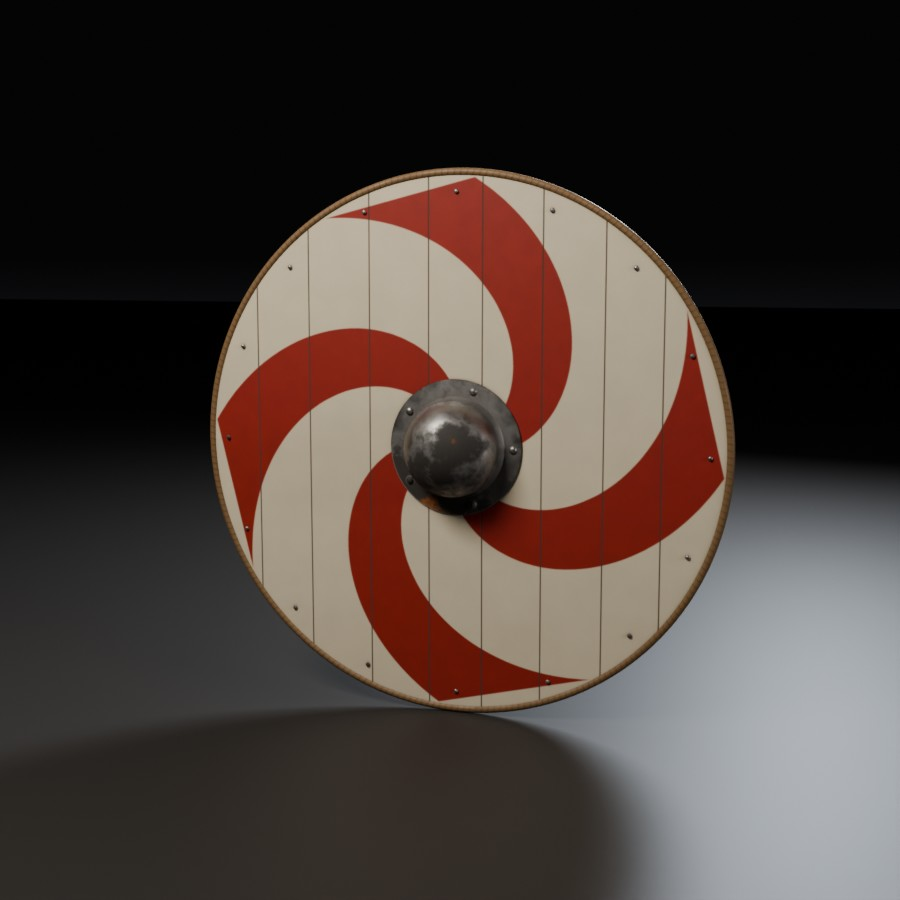
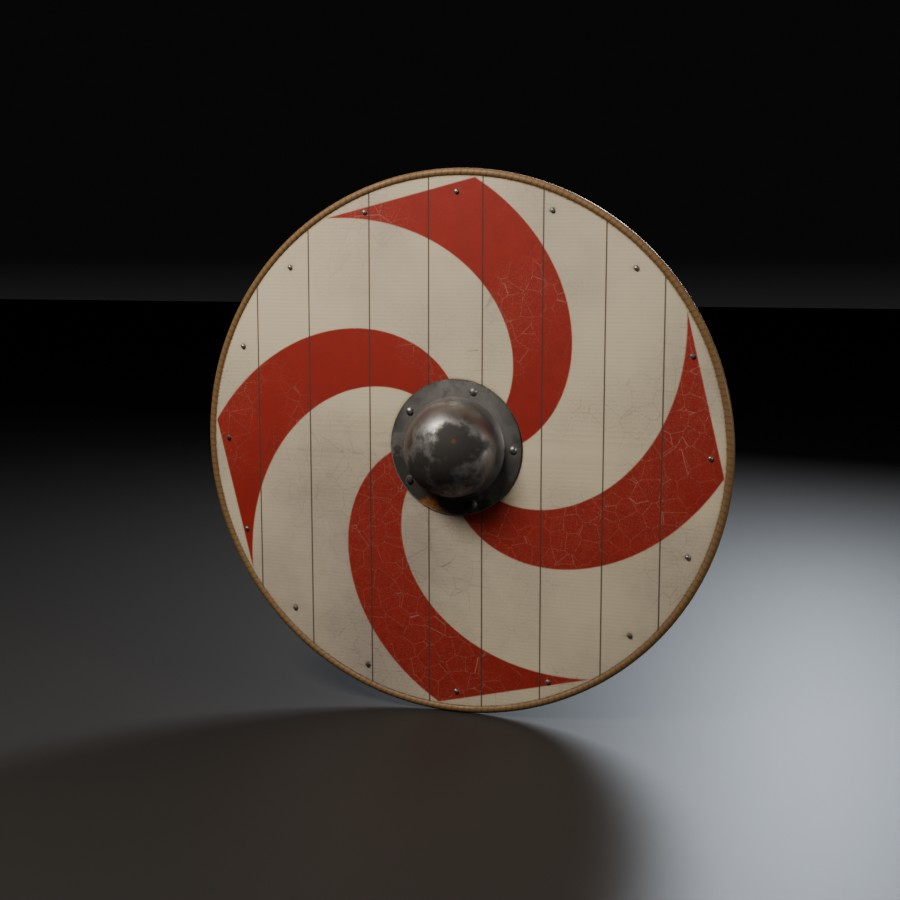
Add library catalogue generator and README
Claude-Session: https://claude.ai/code/session_015rzUVMpXxf4vREF2omhBiY

diff --git a/assets/forge/catalog.py b/assets/forge/catalog.py
@@ -1,0 +1,81 @@
+"""Write library/README.md: a catalogue of every built asset (from the *.json metas).
+
+    python3 -m forge.catalog
+"""
+import json
+import os
+
+ROOT = os.path.dirname(os.path.dirname(os.path.abspath(__file__)))
+LIB = os.path.join(ROOT, "library")
+
+THEMES = [
+    ("nordic", "Nordic / Viking age", "c. 800-1050 AD. Weapons, armour, drinking gear, tools."),
+    ("viking_hall", "Viking hall - modular kit", "Building kit for a longhouse / mead hall (see metrics below)."),
+    ("egypt", "Ancient Egypt", "New Kingdom. Regalia, amulets, vessels, a senet board, a papyrus with real hieroglyphs."),
+    ("jade_dynasty", "Jade Dynasty", "Modern imperial China: polished jade, gold, black lacquer, celadon."),
+    ("greece", "Greece / Olympus", "Archaic-Classical. Hoplite gear, painted pottery, divine attributes."),
+    ("paris_1940", "Occupied Paris 1940-44", "A comfortable bourgeois apartment: devices, tableware, furniture."),
+    ("aztec", "Aztec jungle", "Mexica, c. 1400-1521. Obsidian weapons, mosaics, featherwork, daily tools."),
+]
+
+KIT_NOTES = """
+### Kit metrics (viking_hall)
+
+| Rule | Value |
+|---|---|
+| Grid | 2 m along the hall (X). Span 8 m, outer wall lines at y = -4 / +4 |
+| Stone plinth | z 0 - 0.5 (`foundation_2m`, `foundation_corner`) |
+| Floor level | z = 0.5 (`floor_*_2x2`, top surface at the pivot) |
+| Walls | 2.5 m, base on the plinth, top plate at z = 3.0 |
+| Roof | 45 deg, 0.6 m eave overhang, ridge at z = 7.0. Place roof pieces at z = 3.0 |
+| Hall posts | two rows at y = +-2, 4.0 m tall on the floor; purlins (`beam_2m`) on top at z = 4.5 |
+| Door | `door_plank` hinges at local (0.57, 0, 0.22) of `wall_plank_door_2m` |
+| Opposite roof slope | `roof_thatch_2m` rotated 180 deg about Z, shifted +2 m in X |
+
+Pivots sit exactly on the snapping point (module start on the wall centre line,
+or footprint centre for posts and props). `_demo_hall.glb` shows a 12 x 8 m hall
+assembled only from kit pieces.
+"""
+
+
+def main():
+    lines = ["# 3D asset library", "",
+             "Procedurally generated, game-ready glTF 2.0 assets (PBR metallic-roughness, one baked texture set "
+             "per asset: base colour, ORM, tangent-space normal; real-world scale in metres; +Y up).", "",
+             "Everything is regenerated from code: `python3 -m forge.runner` (see `assets/forge/`).", ""]
+    total = 0
+    for key, title, blurb in THEMES:
+        d = os.path.join(LIB, key)
+        if not os.path.isdir(d):
+            continue
+        metas = []
+        for f in sorted(os.listdir(d)):
+            if f.endswith(".json") and not f.startswith("_"):
+                metas.append(json.load(open(os.path.join(d, f))))
+        if not metas:
+            continue
+        total += len(metas)
+        lines += [f"## {title}", "", blurb, "", f"![{title}]({key}/_review.jpg)", ""]
+        lines += ["| Asset | File | Size (m) | Triangles | Texture | GLB |", "|---|---|---|---|---|---|"]
+        for m in metas:
+            dims = " x ".join(f"{x:.2f}" for x in m["dims_m"])
+            lines.append(f"| {m['title']} | `{key}/{m['name']}.glb` | {dims} | {m['tris']:,} | {m['texture']} px | "
+                         f"{m['glb_kb'] / 1024:.1f} MB |")
+        lines.append("")
+        if key == "viking_hall":
+            lines.append(KIT_NOTES)
+            if os.path.exists(os.path.join(d, "_demo_exterior.jpg")):
+                lines += ["![demo hall](viking_hall/_demo_exterior.jpg)",
+                          "![demo hall cutaway](viking_hall/_demo_cutaway.jpg)", ""]
+    lines += ["## Engine notes", "",
+              "- **Unity**: glTFast or UnityGLTF. **Unreal 5**: built-in glTF importer (Interchange). "
+              "**Godot 4**: native. **three.js / Babylon**: GLTFLoader.",
+              "- Normal maps are OpenGL-style (+Y). Flip green for DirectX-convention pipelines.",
+              "- Glass, liquids and embers use separate untextured materials (transmission / emission).", "",
+              f"_{total} assets._", ""]
+    open(os.path.join(LIB, "README.md"), "w").write("\n".join(lines))
+    print(f"catalogue: {total} assets")
+
+
+if __name__ == "__main__":
+    main()

diff --git a/assets/forge/runner.py b/assets/forge/runner.py
@@ -36,7 +36,7 @@ def themes():
 def forge_hash():
     h = hashlib.sha1()
     for f in sorted(os.listdir(os.path.join(ROOT, "forge"))):
-        if f.endswith(".py") and f not in ("runner.py",):
+        if f.endswith(".py") and f not in ("runner.py", "catalog.py", "demo_hall.py", "run_asset.py"):
             h.update(open(os.path.join(ROOT, "forge", f), "rb").read())
     return h.hexdigest()
 

diff --git a/assets/library/README.md b/assets/library/README.md
@@ -1,0 +1,127 @@
+# 3D asset library
+
+Procedurally generated, game-ready glTF 2.0 assets (PBR metallic-roughness, one baked texture set per asset: base colour, ORM, tangent-space normal; real-world scale in metres; +Y up).
+
+Everything is regenerated from code: `python3 -m forge.runner` (see `assets/forge/`).
+
+## Nordic / Viking age
+
+c. 800-1050 AD. Weapons, armour, drinking gear, tools.
+
+![Nordic / Viking age](nordic/_review.jpg)
+
+| Asset | File | Size (m) | Triangles | Texture | GLB |
+|---|---|---|---|---|---|
+| Bearded axe | `nordic/bearded_axe.glb` | 0.20 x 0.04 x 0.71 | 32,868 | 2048 px | 1.7 MB |
+| Drinking horn | `nordic/drinking_horn.glb` | 0.28 x 0.12 x 0.41 | 31,636 | 2048 px | 1.9 MB |
+| Mjolnir pendant | `nordic/mjolnir_pendant.glb` | 0.04 x 0.01 x 0.04 | 12,796 | 1024 px | 1.0 MB |
+| Round shield | `nordic/round_shield.glb` | 0.85 x 0.12 x 0.85 | 12,420 | 2048 px | 1.1 MB |
+| Sea chest | `nordic/sea_chest.glb` | 0.88 x 0.47 x 0.42 | 11,056 | 2048 px | 1.5 MB |
+| Smithing hammer | `nordic/smithing_hammer.glb` | 0.13 x 0.04 x 0.35 | 6,220 | 1024 px | 0.3 MB |
+| Soapstone pot | `nordic/soapstone_pot.glb` | 0.36 x 0.32 x 0.32 | 14,396 | 1024 px | 0.7 MB |
+| Spangenhelm | `nordic/spangenhelm.glb` | 0.21 x 0.25 x 0.25 | 25,174 | 2048 px | 2.0 MB |
+| Stave tankard | `nordic/stave_tankard.glb` | 0.20 x 0.14 x 0.16 | 6,252 | 1024 px | 0.5 MB |
+| Viking sword | `nordic/viking_sword.glb` | 0.14 x 0.03 x 0.89 | 28,028 | 2048 px | 1.9 MB |
+
+## Ancient Egypt
+
+New Kingdom. Regalia, amulets, vessels, a senet board, a papyrus with real hieroglyphs.
+
+![Ancient Egypt](egypt/_review.jpg)
+
+| Asset | File | Size (m) | Triangles | Texture | GLB |
+|---|---|---|---|---|---|
+| Ankh | `egypt/ankh.glb` | 0.18 x 0.01 x 0.25 | 7,520 | 2048 px | 1.0 MB |
+| Blue-painted jar | `egypt/blue_painted_jar.glb` | 0.32 x 0.32 x 0.60 | 27,008 | 2048 px | 1.5 MB |
+| Crook and flail | `egypt/crook_and_flail.glb` | 0.20 x 0.08 x 0.34 | 11,224 | 2048 px | 1.3 MB |
+| Heart scarab | `egypt/heart_scarab.glb` | 0.05 x 0.07 x 0.03 | 9,072 | 1024 px | 0.6 MB |
+| Khopesh | `egypt/khopesh.glb` | 0.22 x 0.03 x 0.59 | 10,212 | 2048 px | 1.1 MB |
+| Lotus chalice | `egypt/lotus_chalice.glb` | 0.24 x 0.17 x 0.18 | 29,368 | 2048 px | 1.6 MB |
+| Papyrus scroll | `egypt/papyrus_scroll.glb` | 0.38 x 0.26 x 0.05 | 25,844 | 2048 px | 1.8 MB |
+| Senet board | `egypt/senet_board.glb` | 0.43 x 0.23 x 0.07 | 2,980 | 2048 px | 0.7 MB |
+| Sistrum | `egypt/sistrum.glb` | 0.13 x 0.07 x 0.30 | 14,608 | 1024 px | 0.8 MB |
+| Usekh collar | `egypt/usekh_collar.glb` | 0.35 x 0.31 x 0.01 | 69,780 | 2048 px | 5.4 MB |
+
+## Jade Dynasty
+
+Modern imperial China: polished jade, gold, black lacquer, celadon.
+
+![Jade Dynasty](jade_dynasty/_review.jpg)
+
+| Asset | File | Size (m) | Triangles | Texture | GLB |
+|---|---|---|---|---|---|
+| Bi disc on stand | `jade_dynasty/bi_disc.glb` | 0.20 x 0.06 x 0.23 | 3,520 | 2048 px | 0.6 MB |
+| Buyao hairpin | `jade_dynasty/buyao_hairpin.glb` | 0.23 x 0.05 x 0.01 | 8,748 | 1024 px | 0.6 MB |
+| Celadon bowl | `jade_dynasty/celadon_bowl.glb` | 0.20 x 0.20 x 0.08 | 37,376 | 1024 px | 1.5 MB |
+| Bronze ding censer | `jade_dynasty/ding_censer.glb` | 0.23 x 0.23 x 0.23 | 10,760 | 2048 px | 1.3 MB |
+| Folding fan | `jade_dynasty/folding_fan.glb` | 0.49 x 0.33 x 0.02 | 6,424 | 2048 px | 1.2 MB |
+| Jade abacus | `jade_dynasty/jade_abacus.glb` | 0.30 x 0.02 x 0.16 | 12,308 | 2048 px | 1.8 MB |
+| Jade jian | `jade_dynasty/jade_jian.glb` | 0.12 x 0.03 x 0.97 | 11,552 | 2048 px | 0.9 MB |
+| Jade seal and cinnabar box | `jade_dynasty/jade_seal.glb` | 0.14 x 0.17 x 0.10 | 14,904 | 2048 px | 1.1 MB |
+| Silk lantern | `jade_dynasty/silk_lantern.glb` | 0.29 x 0.29 x 0.43 | 52,640 | 2048 px | 3.6 MB |
+| Zisha teapot | `jade_dynasty/zisha_teapot.glb` | 0.23 x 0.15 x 0.12 | 33,288 | 2048 px | 1.7 MB |
+
+## Greece / Olympus
+
+Archaic-Classical. Hoplite gear, painted pottery, divine attributes.
+
+![Greece / Olympus](greece/_review.jpg)
+
+| Asset | File | Size (m) | Triangles | Texture | GLB |
+|---|---|---|---|---|---|
+| Black-figure amphora | `greece/amphora.glb` | 0.32 x 0.32 x 0.62 | 31,608 | 2048 px | 1.6 MB |
+| Chelys lyre | `greece/chelys_lyre.glb` | 0.26 x 0.07 x 0.50 | 10,288 | 2048 px | 1.2 MB |
+| Corinthian helmet | `greece/corinthian_helmet.glb` | 0.20 x 0.29 x 0.37 | 18,274 | 2048 px | 1.5 MB |
+| Hoplon shield | `greece/hoplon.glb` | 0.91 x 0.10 x 0.91 | 38,824 | 2048 px | 1.8 MB |
+| Red-figure kylix | `greece/kylix.glb` | 0.28 x 0.25 x 0.09 | 39,560 | 2048 px | 1.5 MB |
+| Golden laurel wreath | `greece/laurel_wreath.glb` | 0.26 x 0.24 x 0.05 | 39,384 | 1024 px | 2.2 MB |
+| Terracotta oil lamp | `greece/oil_lamp.glb` | 0.15 x 0.10 x 0.04 | 6,464 | 1024 px | 0.4 MB |
+| Thunderbolt of Zeus | `greece/thunderbolt.glb` | 0.09 x 0.09 x 0.72 | 10,520 | 2048 px | 1.7 MB |
+| Trident of Poseidon | `greece/trident.glb` | 0.27 x 0.06 x 1.55 | 5,468 | 2048 px | 0.8 MB |
+| Xiphos | `greece/xiphos.glb` | 0.09 x 0.04 x 0.61 | 8,044 | 2048 px | 0.7 MB |
+
+## Occupied Paris 1940-44
+
+A comfortable bourgeois apartment: devices, tableware, furniture.
+
+![Occupied Paris 1940-44](paris_1940/_review.jpg)
+
+| Asset | File | Size (m) | Triangles | Texture | GLB |
+|---|---|---|---|---|---|
+| Leather club chair | `paris_1940/club_chair.glb` | 0.78 x 0.70 x 0.83 | 6,932 | 2048 px | 0.8 MB |
+| Limoges cup and saucer | `paris_1940/cup_and_saucer.glb` | 0.18 x 0.18 x 0.06 | 36,128 | 1024 px | 1.3 MB |
+| Felt fedora | `paris_1940/fedora.glb` | 0.35 x 0.31 x 0.14 | 20,716 | 2048 px | 1.5 MB |
+| Horn gramophone | `paris_1940/gramophone.glb` | 0.52 x 0.72 x 0.83 | 23,356 | 2048 px | 1.7 MB |
+| Art deco table lamp | `paris_1940/table_lamp.glb` | 0.35 x 0.35 x 0.47 | 20,412 | 2048 px | 1.8 MB |
+| Bakelite telephone | `paris_1940/telephone.glb` | 0.29 x 0.22 x 0.14 | 21,400 | 2048 px | 1.7 MB |
+| Art deco tube radio | `paris_1940/tube_radio.glb` | 0.38 x 0.25 x 0.41 | 10,652 | 2048 px | 1.1 MB |
+| Portable typewriter | `paris_1940/typewriter.glb` | 0.38 x 0.30 x 0.26 | 27,492 | 2048 px | 2.3 MB |
+| Walther P38 | `paris_1940/walther_p38.glb` | 0.19 x 0.04 x 0.13 | 1,864 | 2048 px | 0.8 MB |
+| Bordeaux bottle and glass | `paris_1940/wine_and_glass.glb` | 0.22 x 0.13 x 0.32 | 25,940 | 2048 px | 1.3 MB |
+
+## Aztec jungle
+
+Mexica, c. 1400-1521. Obsidian weapons, mosaics, featherwork, daily tools.
+
+![Aztec jungle](aztec/_review.jpg)
+
+| Asset | File | Size (m) | Triangles | Texture | GLB |
+|---|---|---|---|---|---|
+| Chimalli feather shield | `aztec/chimalli.glb` | 0.70 x 0.02 x 0.79 | 7,332 | 2048 px | 1.2 MB |
+| Screenfold codex | `aztec/codex.glb` | 0.89 x 0.20 x 0.03 | 152 | 2048 px | 0.5 MB |
+| Quetzal feather headdress | `aztec/feather_headdress.glb` | 1.14 x 0.20 x 0.60 | 40,068 | 2048 px | 2.7 MB |
+| Macuahuitl | `aztec/macuahuitl.glb` | 0.11 x 0.06 x 0.96 | 12,052 | 2048 px | 1.4 MB |
+| Metate and mano | `aztec/metate_mano.glb` | 0.46 x 0.30 x 0.20 | 7,488 | 2048 px | 1.3 MB |
+| Turquoise mosaic mask | `aztec/mosaic_mask.glb` | 0.16 x 0.09 x 0.20 | 8,880 | 2048 px | 2.4 MB |
+| Sun stone | `aztec/sun_stone.glb` | 0.60 x 0.09 x 0.60 | 23,040 | 2048 px | 2.3 MB |
+| Tecpatl ritual knife | `aztec/tecpatl.glb` | 0.09 x 0.06 x 0.32 | 4,828 | 2048 px | 1.6 MB |
+| Teponaztli slit drum | `aztec/teponaztli.glb` | 0.60 x 0.43 x 0.18 | 11,062 | 2048 px | 1.2 MB |
+| Tripod bowl | `aztec/tripod_bowl.glb` | 0.28 x 0.28 x 0.11 | 35,152 | 2048 px | 1.8 MB |
+
+## Engine notes
+
+- **Unity**: glTFast or UnityGLTF. **Unreal 5**: built-in glTF importer (Interchange). **Godot 4**: native. **three.js / Babylon**: GLTFLoader.
+- Normal maps are OpenGL-style (+Y). Flip green for DirectX-convention pipelines.
+- Glass, liquids and embers use separate untextured materials (transmission / emission).
+
+_60 assets._
